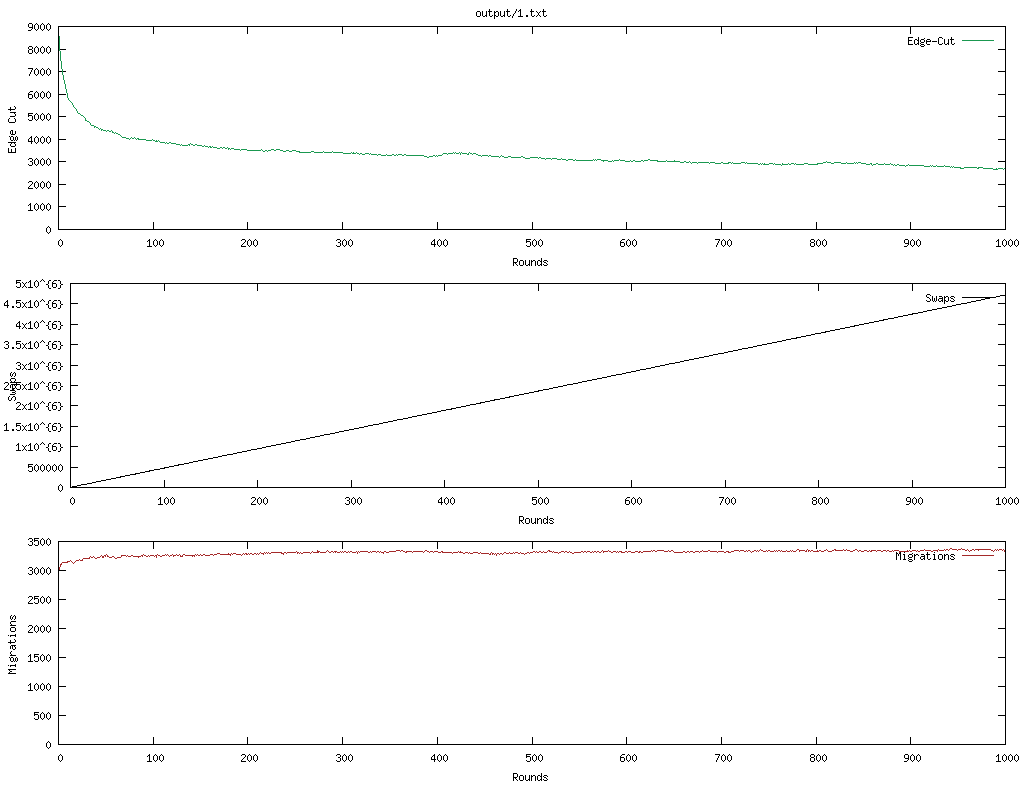
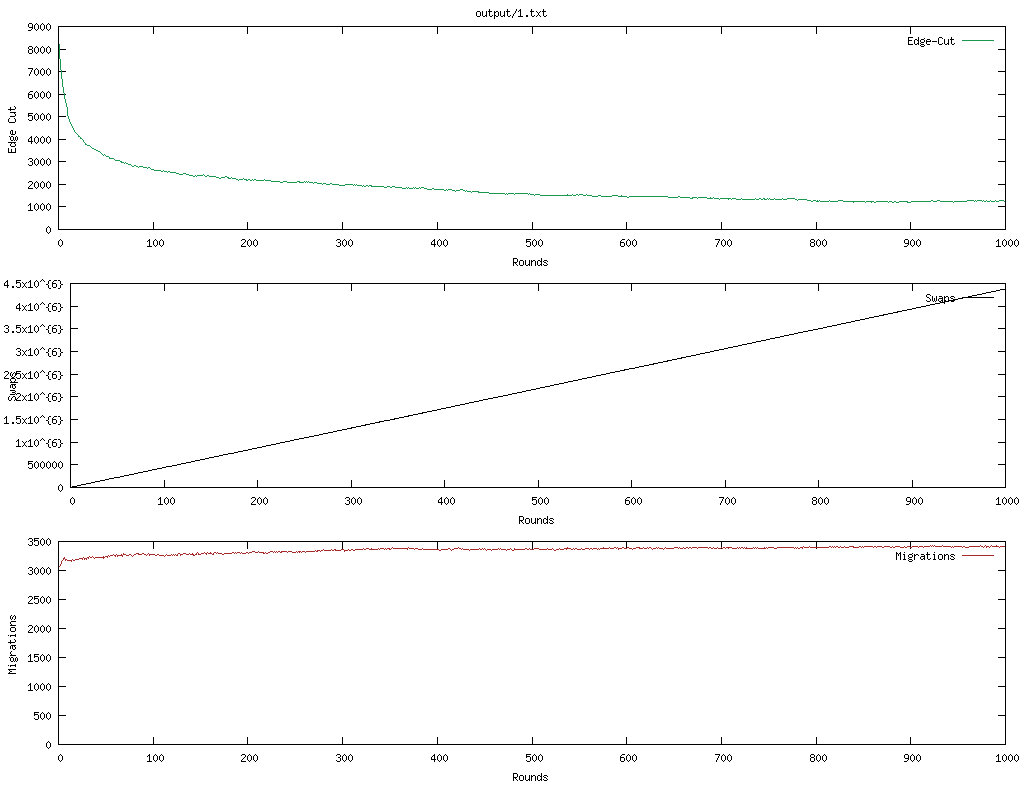
Change sigmoid function

Changed region(s): [[0.0, 0.3664, 0.0625, 0.6107]]

diff --git a/src/main/java/se/kth/jabeja/Jabeja.java b/src/main/java/se/kth/jabeja/Jabeja.java
@@ -104,7 +104,9 @@ public class Jabeja {
 
       double newd = Math.pow(dpq, config.getAlpha()) + Math.pow(dqp, config.getAlpha());
 
-      double ap = Math.pow(Math.E, ((newd - old) / T)) - Math.E;
+      double delta = -(newd - old);
+      double ap = 1/(1 + Math.pow(Math.E, (delta / T)));
+
       if (ap > Math.random() && newd > highestBenefit) {
         bestPartner = nodeq;
         highestBenefit = newd;
